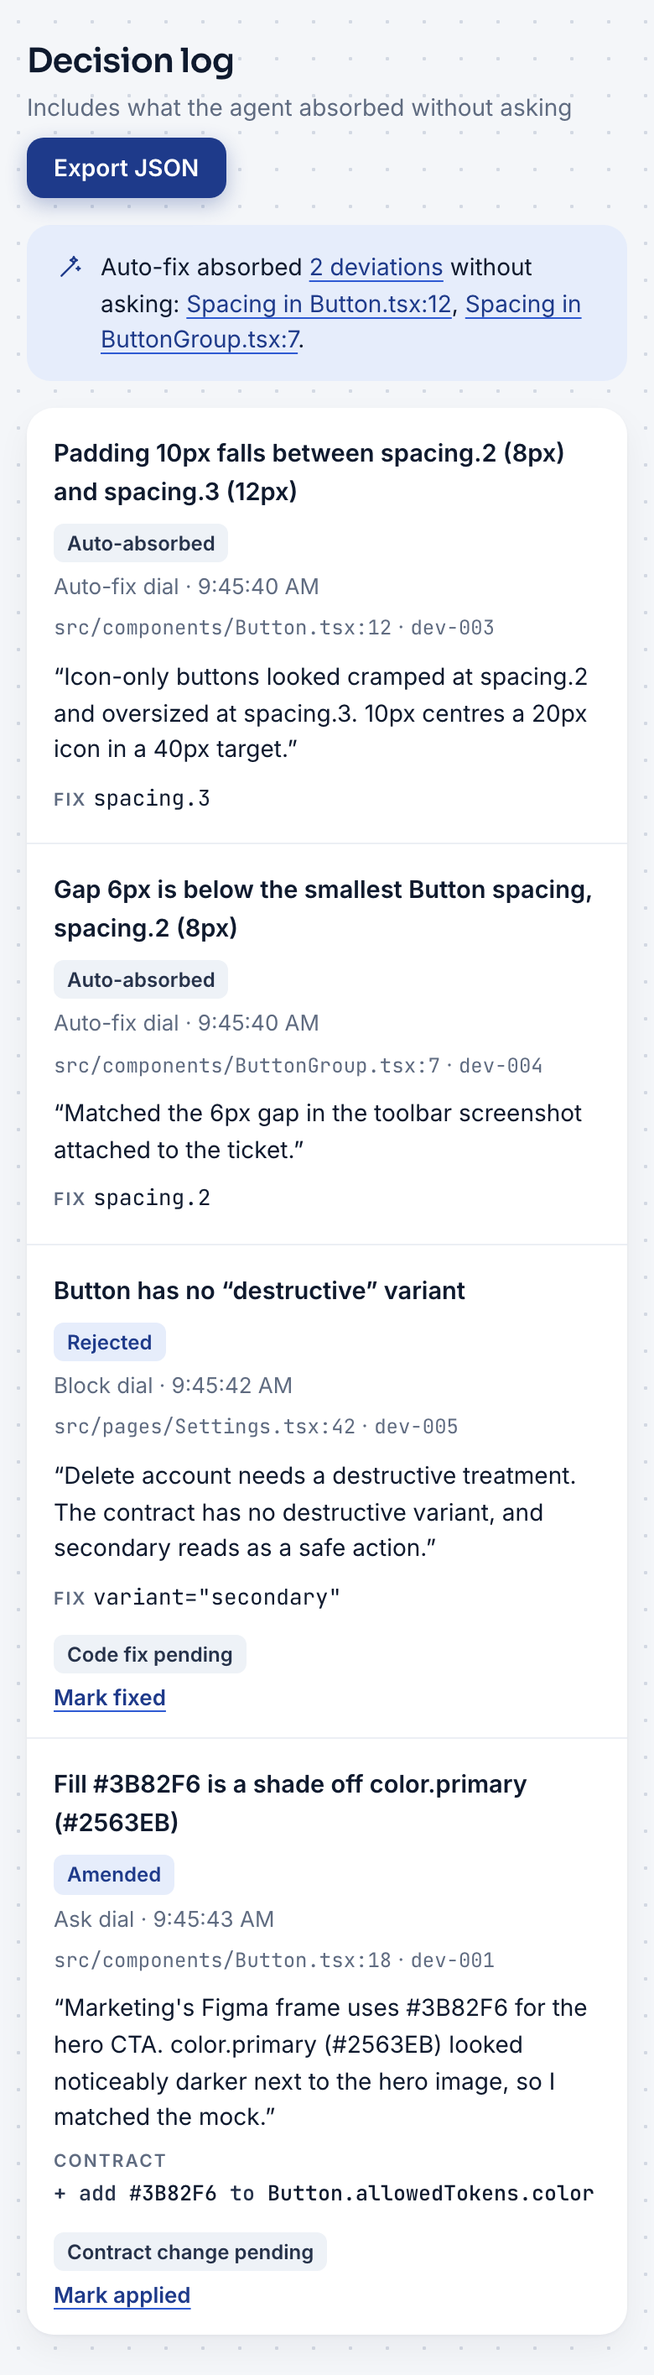
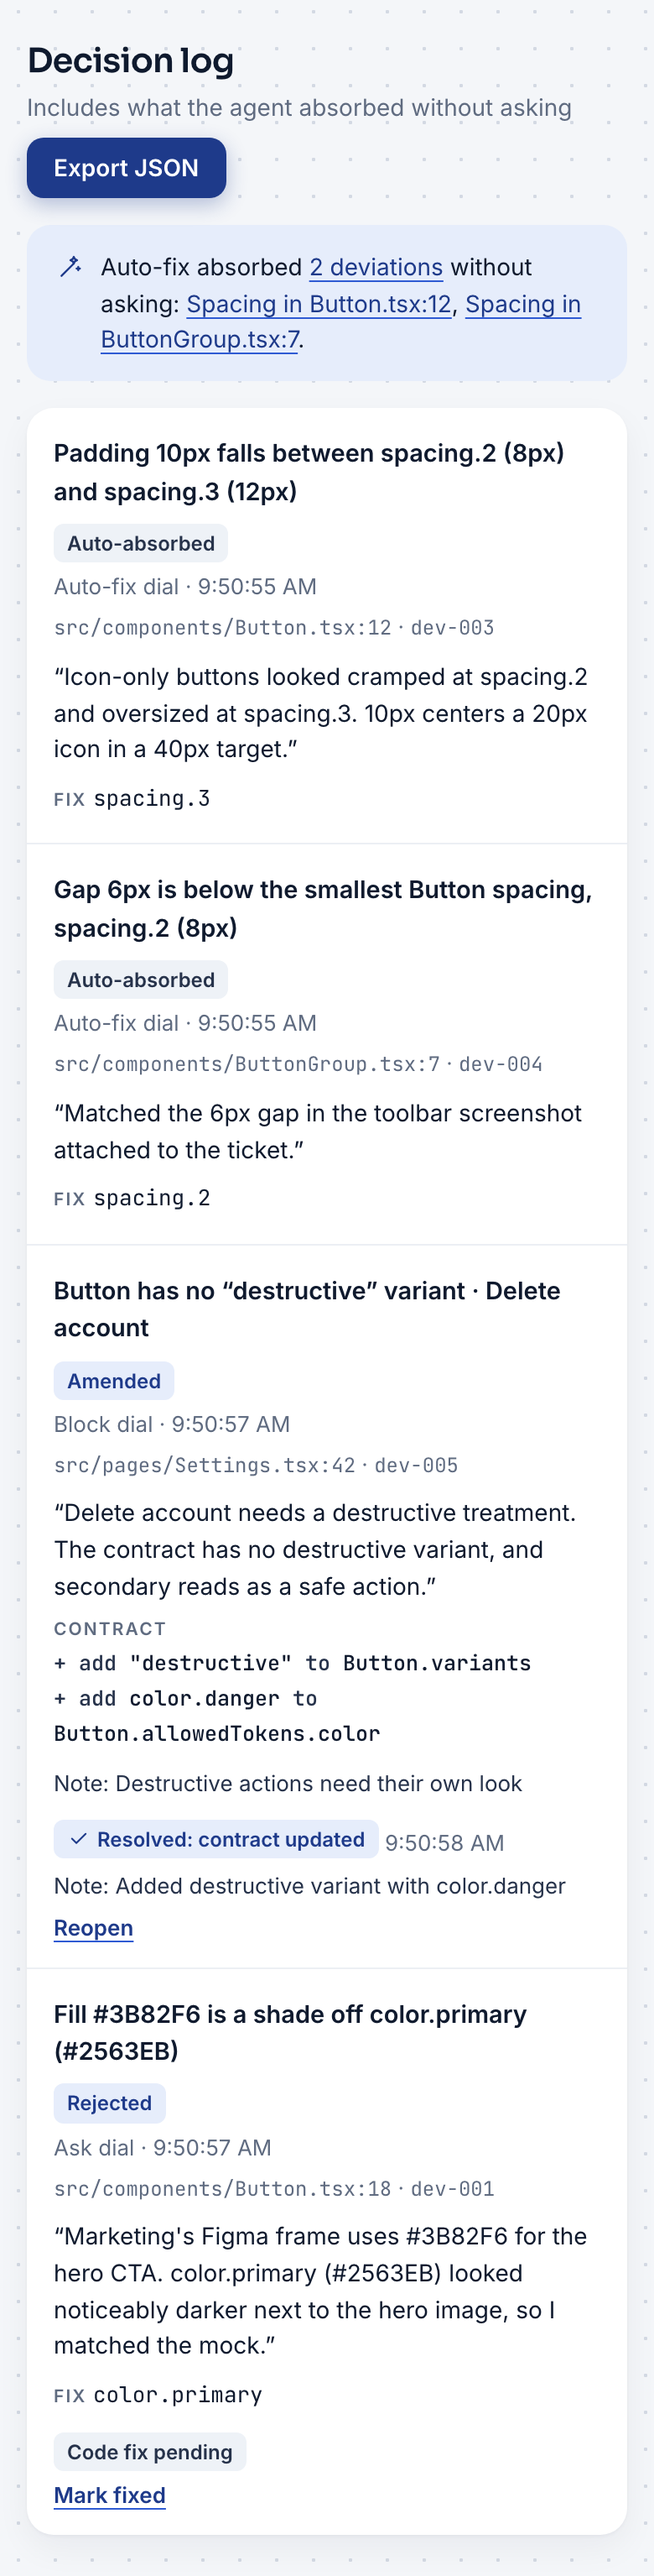
Screenshot pass fixes: bar badge, variant titles, log ids
- The sticky bar's build badge shows only once the bar is stuck; until
  then the header badge is the only one. Hidden with visibility, so the
  invisible link is out of the tab order and the accessibility tree.
- Variant titles include the element's label, so two "destructive" flags
  read apart: "Button has no “destructive” variant · Delete account".
  Cards, collapsed rows and log entries share the title.
- Decision log ids are nowrap ("dev-005" no longer splits).
- data/reasons.json: "centres" -> "centers".
- Retook 01, 03, 04, 05, 06, 07 and 08. 04 now shows an Amend with a
  note, marked applied with a note, and a pending Reject.
- CLAUDE.md and BUILD_LOG updated.

diff --git a/styles.css b/styles.css
@@ -282,7 +282,10 @@ a.status--blocked:hover { background: var(--red-text); border-color: var(--red-t
 }
 .bar.is-stuck { background: var(--sticky); border-bottom-color: var(--hairline); -webkit-backdrop-filter: blur(12px); backdrop-filter: blur(12px); }
 .bar__inner { display: flex; align-items: center; justify-content: space-between; gap: 16px; }
-.bar__status { flex: none; }
+/* The bar's badge copy shows only once the bar is stuck; until then the header badge is in view.
+   visibility (not just opacity) keeps the hidden link out of the tab order and away from screen readers. */
+.bar__status { flex: none; transition: opacity var(--motion), visibility var(--motion); }
+.bar:not(.is-stuck) .bar__status { visibility: hidden; opacity: 0; }
 .steps {
   display: flex;
   gap: 4px;
@@ -623,6 +626,7 @@ h3 { font-size: 14.5px; font-weight: 600; color: var(--ink); margin: 0; }
 .entry__title { grid-column: 1 / -1; font-size: 14.5px; font-weight: 600; color: var(--ink); }
 .entry__head { grid-row: span 2; display: grid; gap: 4px; align-content: start; justify-items: start; min-width: 0; }
 .entry__head .loc { color: var(--muted); font-size: 12px; overflow-wrap: break-word; }
+.entry__head .loc--id { white-space: nowrap; overflow-wrap: normal; }
 .entry__reason { max-width: 64ch; color: var(--ink); }
 .entry__outcome { display: grid; gap: 8px; align-content: start; font-size: var(--fs-meta); overflow-wrap: anywhere; }
 .entry__outcome code { color: var(--ink); }

diff --git a/src/ui/render.js b/src/ui/render.js
@@ -524,7 +524,7 @@ export function log(entries, resolving, session) {
         <div class="entry__head">
           <span class="chip chip--decision chip--${esc(e.decision)}">${DECISION_LABEL[e.decision]}</span>
           <p class="meta">${DIAL_LABEL[e.dialSetting]} dial · <time datetime="${esc(e.timestamp)}">${esc(new Date(e.timestamp).toLocaleTimeString())}</time></p>
-          <p class="meta"><code class="loc">${esc(e.file).replace(/\//g, '/<wbr>')}:${esc(e.line)}</code> · <code class="loc">${esc(e.id)}</code></p>
+          <p class="meta"><code class="loc">${esc(e.file).replace(/\//g, '/<wbr>')}:${esc(e.line)}</code> · <code class="loc loc--id">${esc(e.id)}</code></p>
         </div>
         <p class="entry__reason">${e.agentReason ? `“${esc(e.agentReason)}”` : `<span class="warn">${icon('alert', 14)}No reason given</span>`}</p>
         <div class="entry__outcome">

diff --git a/src/core/explain.js b/src/core/explain.js
@@ -8,6 +8,7 @@ import { distance, findColor, parseColor, sameColor } from './colors.js';
 
 const PX = /\b\d+(?:\.\d+)?px\b/g;
 const VARIANT = /variant=["']([^"']+)["']/;
+const CHILDREN = />([^<]+)</;
 const PROPERTY = /^\s*([a-z-]+)\s*:/i;
 
 // Within this RGB distance a color reads as "a shade off" its token.
@@ -64,7 +65,9 @@ export function flagTitle(deviation, contract) {
 
   if (rule === 'no-off-contract-variant') {
     const variant = snippet.match(VARIANT)?.[1];
-    if (variant) return `${component} has no “${variant}” variant`;
+    // The element's own label tells two flags of the same variant apart ("· Delete account", "· Remove user").
+    const text = snippet.match(CHILDREN)?.[1]?.trim();
+    if (variant) return `${component} has no “${variant}” variant${text ? ` · ${text}` : ''}`;
   }
 
   return `This line breaks the rule ${rule}`;

diff --git a/test/explain.test.js b/test/explain.test.js
@@ -35,8 +35,13 @@ describe('flagTitle', () => {
     expect(flagTitle(d, contract)).toMatch(/^Padding 10px/);
   });
 
-  it('names an off-contract variant', () => {
-    expect(flagTitle(seed['dev-005'], contract)).toBe('Button has no “destructive” variant');
+  it('names an off-contract variant and the element’s label', () => {
+    expect(flagTitle(seed['dev-005'], contract)).toBe('Button has no “destructive” variant · Delete account');
+  });
+
+  it('leaves the label off when the element has none', () => {
+    const d = dev({ rule: 'no-off-contract-variant', snippet: '<Button variant="outline" />', suggestedToken: 'variant="secondary"' });
+    expect(flagTitle(d, contract)).toBe('Button has no “outline” variant');
   });
 
   it('falls back for unknown rules and unparseable snippets', () => {

diff --git a/CLAUDE.md b/CLAUDE.md
@@ -50,7 +50,7 @@ These are defaults; the user can change any dial.
   - A deviation with **no agent reason is never auto-absorbed**. It stays in Decide under any dial, and its card says "No agent reason, so a person has to decide." Its log entry records `dialSetting: "auto-fix"`.
   - Deviations absorbed because a dial was turned to Auto-fix **during the session** (not by the loaded policy) return to Decide if that dial is moved to Ask or Block. Their auto-absorbed entries are removed. Policy-absorbed deviations stay absorbed, and Reject/Amend decisions never move.
 - **Ask**: shown as a review card. Human chooses Reject or Amend.
-- **Block**: shown as a review card. A persistent "Build blocked" status stays red until every blocked deviation is resolved. While blocked, the badge is a link that scrolls to and focuses the first blocking card. It sits in the header beside "Load your files" and reads "Build blocked · N"; a second copy sits at the right of the sticky bar (not a live region; under 640px it shrinks to its icon and count, the label kept for screen readers). While blocked, the Blocked stat card is red too. The count is `aria-hidden`, and screen readers get the full sentence instead ("1 blocked deviation needs a decision").
+- **Block**: shown as a review card. A persistent "Build blocked" status stays red until every blocked deviation is resolved. While blocked, the badge is a link that scrolls to and focuses the first blocking card. It sits in the header beside "Load your files" and reads "Build blocked · N"; a second copy sits at the right of the sticky bar, shown only once the bar is stuck (before that the header badge is in view; the hidden copy is `visibility: hidden`, so it's out of the tab order and the accessibility tree) (not a live region; under 640px it shrinks to its icon and count, the label kept for screen readers). While blocked, the Blocked stat card is red too. The count is `aria-hidden`, and screen readers get the full sentence instead ("1 blocked deviation needs a decision").
 - **Reject**: code is wrong; logged with the suggested fix.
 - **Amend**: contract is wrong; log records every proposed contract change as a list (e.g. `["add \"destructive\" to Button.variants", "add color.danger to Button.allowedTokens.color"]`). Extra tokens come from `alsoAllowTokens`; ones the component already allows are skipped.
 - Amending a deviation with no agent reason requires a human note. That's the riskiest decision in the app. Enforced in core, not only the UI.
@@ -61,7 +61,7 @@ These are defaults; the user can change any dial.
 
 ## Review card anatomy
 The first undecided card is open; the others are rows (icon tile, rule label, title, the two swatches for color flags, chevron) that expand on click and fold back with a chevron in the card's header. The open card, top to bottom:
-1. **Header band** (brand blue with the grid texture): 44px glass icon tile for the rule; a dial chip (Block in red, others glass) and the rule name; the **title** in Sora 20 white, a plain-language flag readable by a designer who doesn't read code and a developer who doesn't know the design system, e.g. "Fill #3B82F6 is a shade off color.primary (#2563EB)" (`flagTitle` in `src/core/explain.js`). Colors are parsed by `src/core/colors.js`: hex in every length, and `rgb()`/`rgba()` in comma or space syntax. A see-through color near the token reads "Fill rgba(37,99,235,0.08) is a tint of color.primary", and its Amend adds the color as written ("add rgba(37, 99, 235, 0.08) to Button.allowedTokens.color"). When the hard-coded value equals the suggested token's value, it reads "Hard-coded #FFFFFF instead of color.surface (same value)" (`sameValueAsToken`). `file:line` in mono at the top right. Under 640px a path over 40 characters is shortened in the middle (`shortPath`: "src/features/…/UpgradePlanBanner…Callout.tsx:87"), breaking only after a slash; the full path stays in the header's `title`, for screen readers, and in a "File" line at the top of the card body.
+1. **Header band** (brand blue with the grid texture): 44px glass icon tile for the rule; a dial chip (Block in red, others glass) and the rule name; the **title** in Sora 20 white, a plain-language flag readable by a designer who doesn't read code and a developer who doesn't know the design system, e.g. "Fill #3B82F6 is a shade off color.primary (#2563EB)" (`flagTitle` in `src/core/explain.js`). A variant flag adds the element's own label, so two flags of the same variant can be told apart: "Button has no “destructive” variant · Delete account" (left off when the element has no text). Cards, collapsed rows and log entries share the title. Colors are parsed by `src/core/colors.js`: hex in every length, and `rgb()`/`rgba()` in comma or space syntax. A see-through color near the token reads "Fill rgba(37,99,235,0.08) is a tint of color.primary", and its Amend adds the color as written ("add rgba(37, 99, 235, 0.08) to Button.allowedTokens.color"). When the hard-coded value equals the suggested token's value, it reads "Hard-coded #FFFFFF instead of color.surface (same value)" (`sameValueAsToken`). `file:line` in mono at the top right. Under 640px a path over 40 characters is shortened in the middle (`shortPath`: "src/features/…/UpgradePlanBanner…Callout.tsx:87"), breaking only after a slash; the full path stays in the header's `title`, for screen readers, and in a "File" line at the top of the card body.
 2. **Snippet** in a `--code` block with the offending value (hex or `rgb()`/`rgba()` color, off-scale px or variant name) marked red on the red tint, inline with `padding: 0 2px`. A quoted value is marked with its quotes (`"destructive"`). It scrolls sideways rather than wrapping; when it overflows, a "The line continues. Scroll sideways to read it all." line appears under it and the snippet becomes keyboard-focusable.
 3. **Why flagged** (the contract rule in plain language, `flagRule`) and **Why the agent did it** (the agent's reason), as two `--why` tiles side by side, each with an icon label. A missing reason reads "No reason given." in bold with an alert icon, and its tile gets a dashed blue edge.
 4. **Preview**: the deviation drawn from contract tokens in pure HTML/CSS (`src/core/preview.js` builds the data, `render.js` draws it), in separate bordered tiles with a 12px dot grid, true size, equal height at every width (a fixed 120px stage, `--stage-h`, with the drawing centred; tiles share rows through subgrid, so labels and captions line up), soft shadows in each button's own color, and an uppercase caption with muted detail ("Agent built", "If you Reject", "If you Amend").
@@ -79,9 +79,9 @@ Header (logo, wordmark, tagline; "Load your files" and the build badge on the ri
 
 - **Stat cards**: Found / To decide / Absorbed / Blocked, each with a 32px icon tile, the number in Sora 26/600 and a label; updated on every render. To decide is solid brand blue; Blocked turns its tile and number red while above 0. 2×2 under 640px.
 - **Contract hero**: brand-blue panel with the grid texture, a glow at the top right and a faint "DRIFT" watermark. Left: "Contract under review", the component name, the contract name and version, counts of variants and allowed color and spacing tokens, and a "Drift by rule" bar chart from the lint report. Right: an SVG line drawing of the component with callouts for its radius, padding and color tokens, its 36px height, and a red "variant?" pill when a variant deviation exists. Under 640px the drawing sits above the counts.
-- **Sticky bar**: full width. Clear until it sticks, so the hero's shadow falls freely onto the page; once stuck (`.is-stuck`, set in app.js) it gets `--sticky` (`rgba(244,246,249,.85)`), a 12px backdrop blur and a 1px `--hairline` bottom edge. Tabs on the left, straight on the bar (no pill container); the active tab is brand blue with white text. Build badge on the right (red while blocked, white bordered "Build clear" otherwise). Under 640px, the tabs are a 4-up grid with icons over labels and the count chip on the icon's corner.
+- **Sticky bar**: full width. Clear until it sticks, so the hero's shadow falls freely onto the page; once stuck (`.is-stuck`, set in app.js) it gets `--sticky` (`rgba(244,246,249,.85)`), a 12px backdrop blur and a 1px `--hairline` bottom edge. Tabs on the left, straight on the bar (no pill container); the active tab is brand blue with white text. Build badge on the right (red while blocked, white bordered "Build clear" otherwise), visible only while the bar is stuck. Under 640px, the tabs are a 4-up grid with icons over labels and the count chip on the icon's corner.
 - **Autonomy Dial**: one white card, a row per rule split by hairlines: a 40px icon tile (red when the rule is on Block), the rule name, a meta line with the counts and what the dial means, and a segmented control (selected brand blue, Block red). Full width under 640px.
-- **Follow-ups, Decision log, Your data**: each one white card with hairline rows. Log entries lead with the same plain-language title as their card, then a decision chip, dial and time, then file path and id as metadata.
+- **Follow-ups, Decision log, Your data**: each one white card with hairline rows. Log entries lead with the same plain-language title as their card, then a decision chip, dial and time, then file path and id as metadata (the id never breaks across lines).
 
 Content sits in a 1080px column.
 

diff --git a/BUILD_LOG.md b/BUILD_LOG.md
@@ -658,3 +658,19 @@ Muted metadata and warning red both pass, but muted has the least headroom (5.00
 **How it was verified**
 - Every palette hue except red sits between 213° and 224°. A browser sweep of every computed color on the page (text, backgrounds, borders, outlines, shadows, gradients, SVG fill and stroke, every card open, bar stuck) at 1280px and 390px found no hue between 250° and 330°. A grep for every old hex and rgb value in the CSS, HTML and JS finds nothing.
 - 123/123 unit tests. `redesign` 104/104 (expected colors updated; its AA check on all visible text passes), `fixes` 56/56, `stickybar` 32/32.
+
+## Screenshot pass fixes (2026-11-15)
+
+**What changed**
+- **Bar badge only while stuck.** At the top of the page the header badge and the bar badge were both on screen, showing the same status twice. The bar's copy is now hidden until the bar sticks.
+- **Variant titles name the element.** The stress data has two "destructive" flags, and their titles were identical. They now read "Button has no “destructive” variant · Delete account" and "… · Remove user", on cards, collapsed rows and log entries alike.
+- **Log ids don't break.** On desktop "dev-005" split as "dev-" / "005" in the narrow metadata column. The id is now `nowrap`; the line breaks before it instead.
+- **US spelling** in the demo reasons: "centres" → "centers".
+
+**Decisions**
+- **Hidden with `visibility`, not only opacity.** An invisible link that still takes focus would be a keyboard trap with nothing on screen. `visibility: hidden` takes it out of the tab order and the accessibility tree; the header badge stays the one screen readers find. Its space is kept, so the tabs don't shift when it appears.
+- **The label comes from the snippet's element text,** the same text the preview draws on its buttons. With no text (`<Button variant="outline" />`) the title stays as it was.
+
+**How it was verified**
+- 124/124 unit tests (new: the label in the title, and no label when the element has none).
+- `redesign`, `fixes`, `stickybar` and `stress-real` all pass. New browser checks: the bar badge is hidden while unstuck and visible once stuck (1280px and 390px); every log id sits on one line; titles for dev-005, dev-012, dev-013, dev-014 and dev-015 include their labels.
